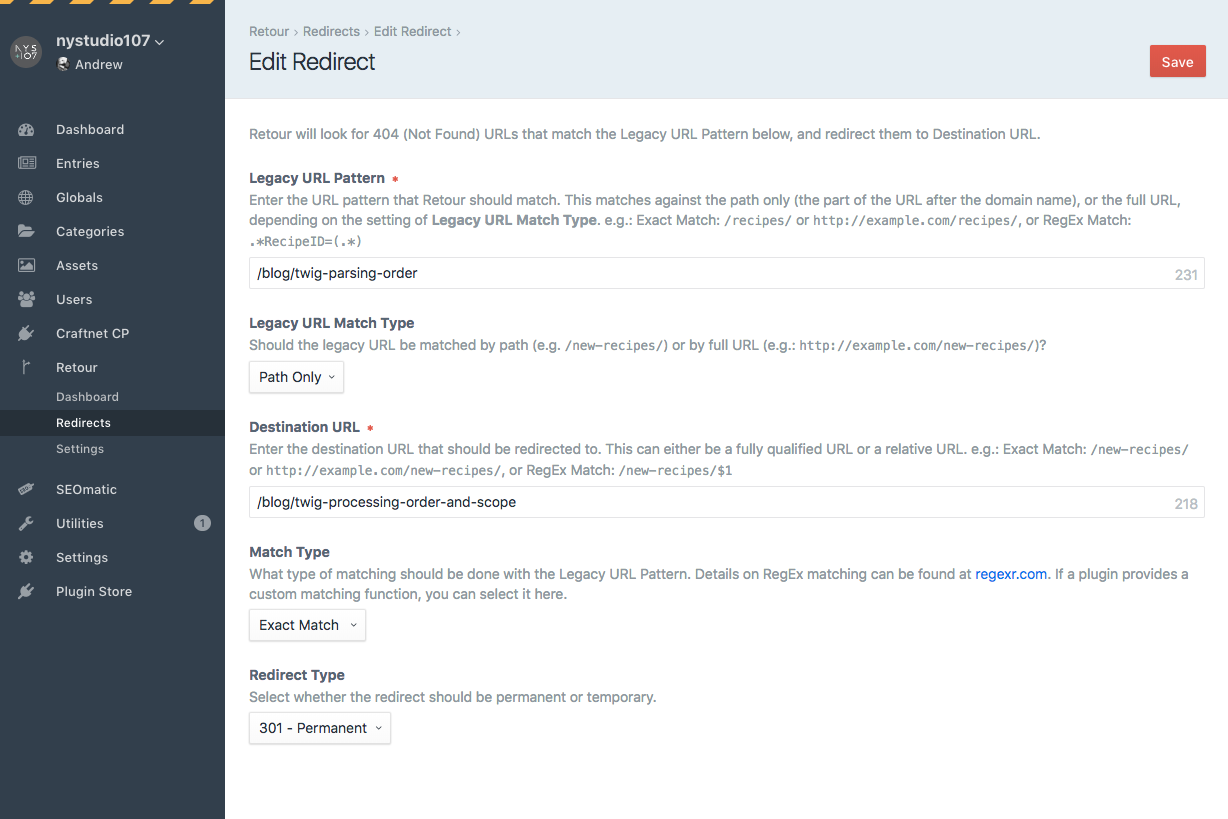
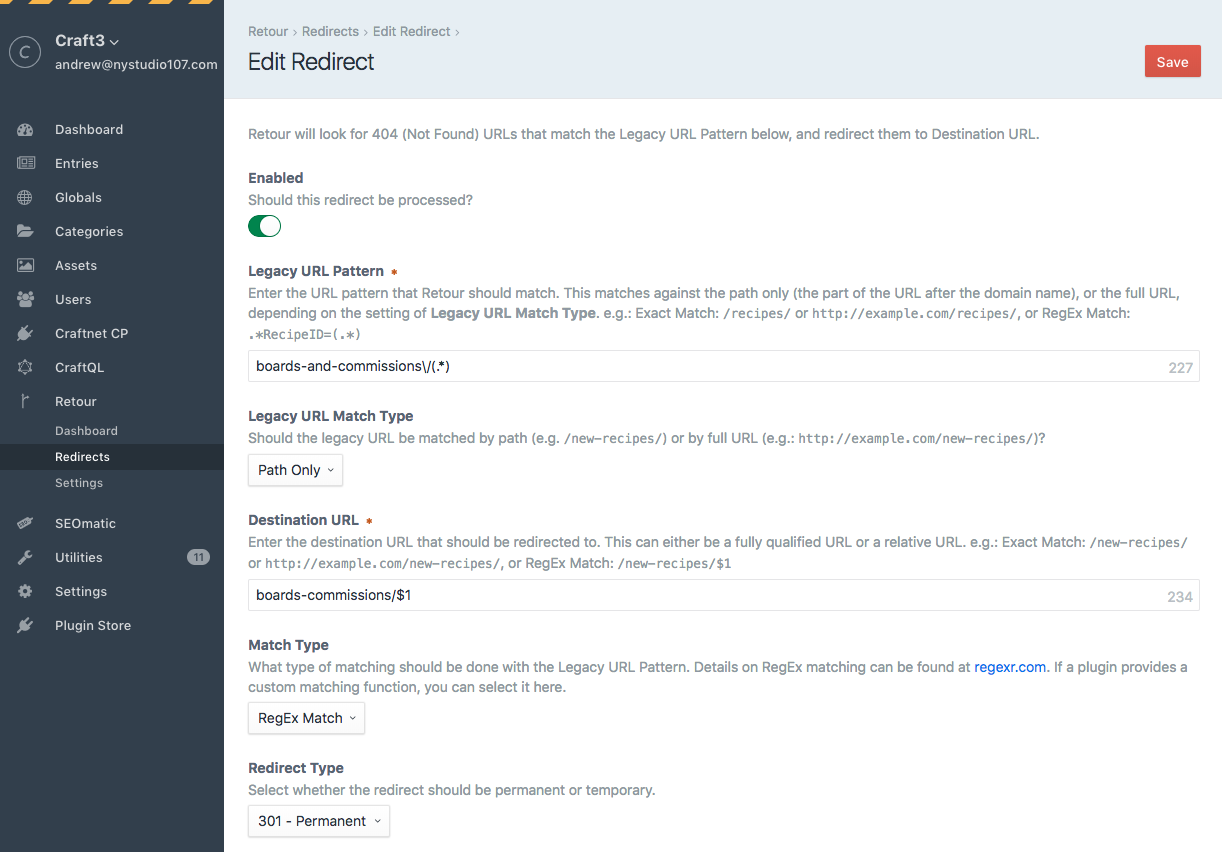
Updated screenshots & documentation

diff --git a/README.md b/README.md
@@ -125,12 +125,15 @@ The **Retour->Redirects** page lists all of your static redirects. You can sort 
 
 Clicking on the `x` next to a static redirect will delete it.
 
+The circle status on the left of each redirect indicates whether the redirect is enabled or not
+
 #### Manually Creating Static Redirects
 
 Static Redirects are useful when the Legacy URL Patterns and the new URL patterns are deterministic. You can create them by clicking on **Retour->Redirects** and then clicking on the **New Static Redirect** button.
 
 ![Screenshot](resources/screenshots/retour-edit-redirect.png)
 
+* **Enabled** - Should this redirect be processed? Sometimes it is convenient to temporarily disable a redirect rather than outright delete it
 * **Legacy URL Pattern** - Enter the URL pattern that Retour should match.  This matches against the path only (the part of the URL after the domain name), or the full URL, depending on the setting of **Legacy URL Match Type**.  e.g.: Exact Match: `/recipes/` or `http://example.com/recipes/`, or RegEx Match: `.*RecipeID=(.*)`
 * **Legacy URL Match Type** - Should the legacy URL be matched by path (e.g. `/new-recipes/`) or by full URL (e.g.: `http://example.com/new-recipes/`)
 * **Destination URL** - Enter the destination URL that should be redirected to.  This can either be a fully qualified URL or a relative URL.  e.g.: Exact Match: `/new-recipes/` or `http://example.com/new-recipes/`, or RegEx Match: `/new-recipes/$1`
@@ -174,6 +177,7 @@ The **Retour->Settings** page allows you to configure various site-wide settings
 * **Plugin name** - The public-facing name of the plugin
 * **Create Entry Redirects** - Controls whether Retour automatically creates static redirects when an entry's URI changes.
 * **Strip Query String from 404s** - Should the query string be stripped from all 404 URLs before their evaluation?
+* **Preserve Query String** - Should the query string be preserved and passed along to the redirected URL?
 * **Strip Query String from Statistics** - Should the query string be stripped from the saved statistics source URLs?
 * **Record Remote IP** - Should the anonymous ip address of the client causing a 404 be recorded?
 * **Statistics to Store** - How many unique 404 statistics should be stored before they are trimmed.
